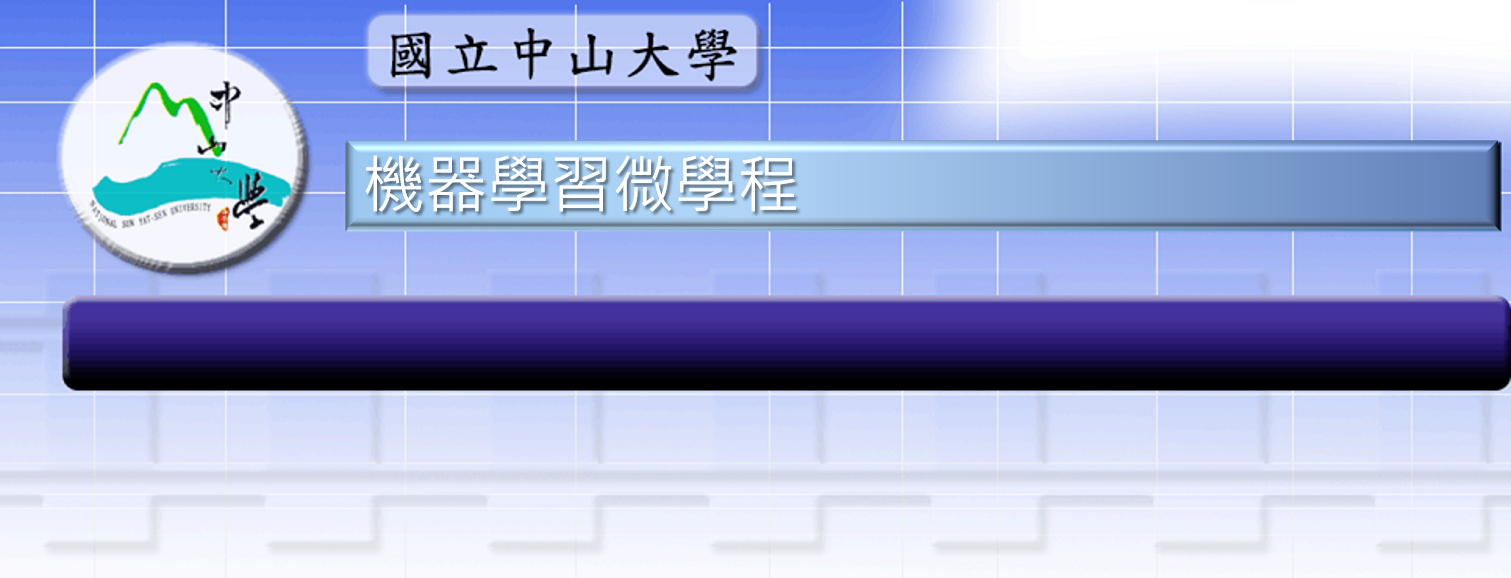
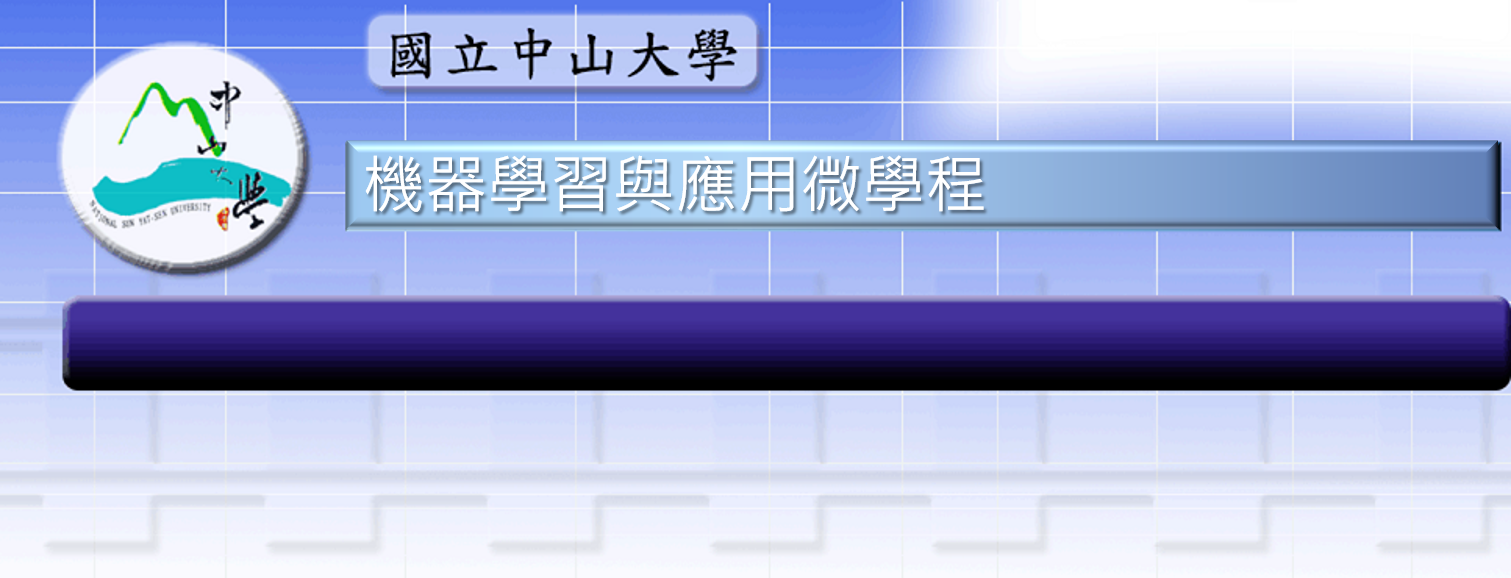
modify the title and pic for files of media_micro_course

Changed region(s): [[0.4044, 0.2491, 0.6532, 0.3737]]

diff --git a/media_micro_course/index.html b/media_micro_course/index.html
@@ -215,7 +215,7 @@ onMouseOut='document.images["b4"].src="pic/Btn4_out.png"'>
 <table width=110%>
 <tr ><td>
  <H1>
-	<p align="center"><font face="標楷體">國立中山大學<br>機器學習微學程</font>
+	<p align="center"><font face="標楷體">國立中山大學<br>機器學習與應用微學程</font>
 	</p> 
 </H1>
 </td></tr>
@@ -223,7 +223,7 @@ onMouseOut='document.images["b4"].src="pic/Btn4_out.png"'>
 
 <p class="s4">【學程目的】
 	<p class="s5">
-    當前蓬勃發展的機器學習與多媒體技術，在各個領域都有極大的發展潛力以及產業前景與研究價值。因此成立「機器學習微學程」，建立中山大學特色模組課程，透過精進關鍵基礎技術與產學合作，培養數位內容與多媒體基礎技術軟硬體整合的專業人才。
+    當前蓬勃發展的機器學習與多媒體技術，在各個領域都有極大的發展潛力以及產業前景與研究價值。因此成立「機器學習與應用微學程」，建立中山大學特色模組課程，透過精進關鍵基礎技術與產學合作，培養數位內容與多媒體基礎技術軟硬體整合的專業人才。
 	</p>
 </p>
 <p class="s4">【發展重點與特色】
